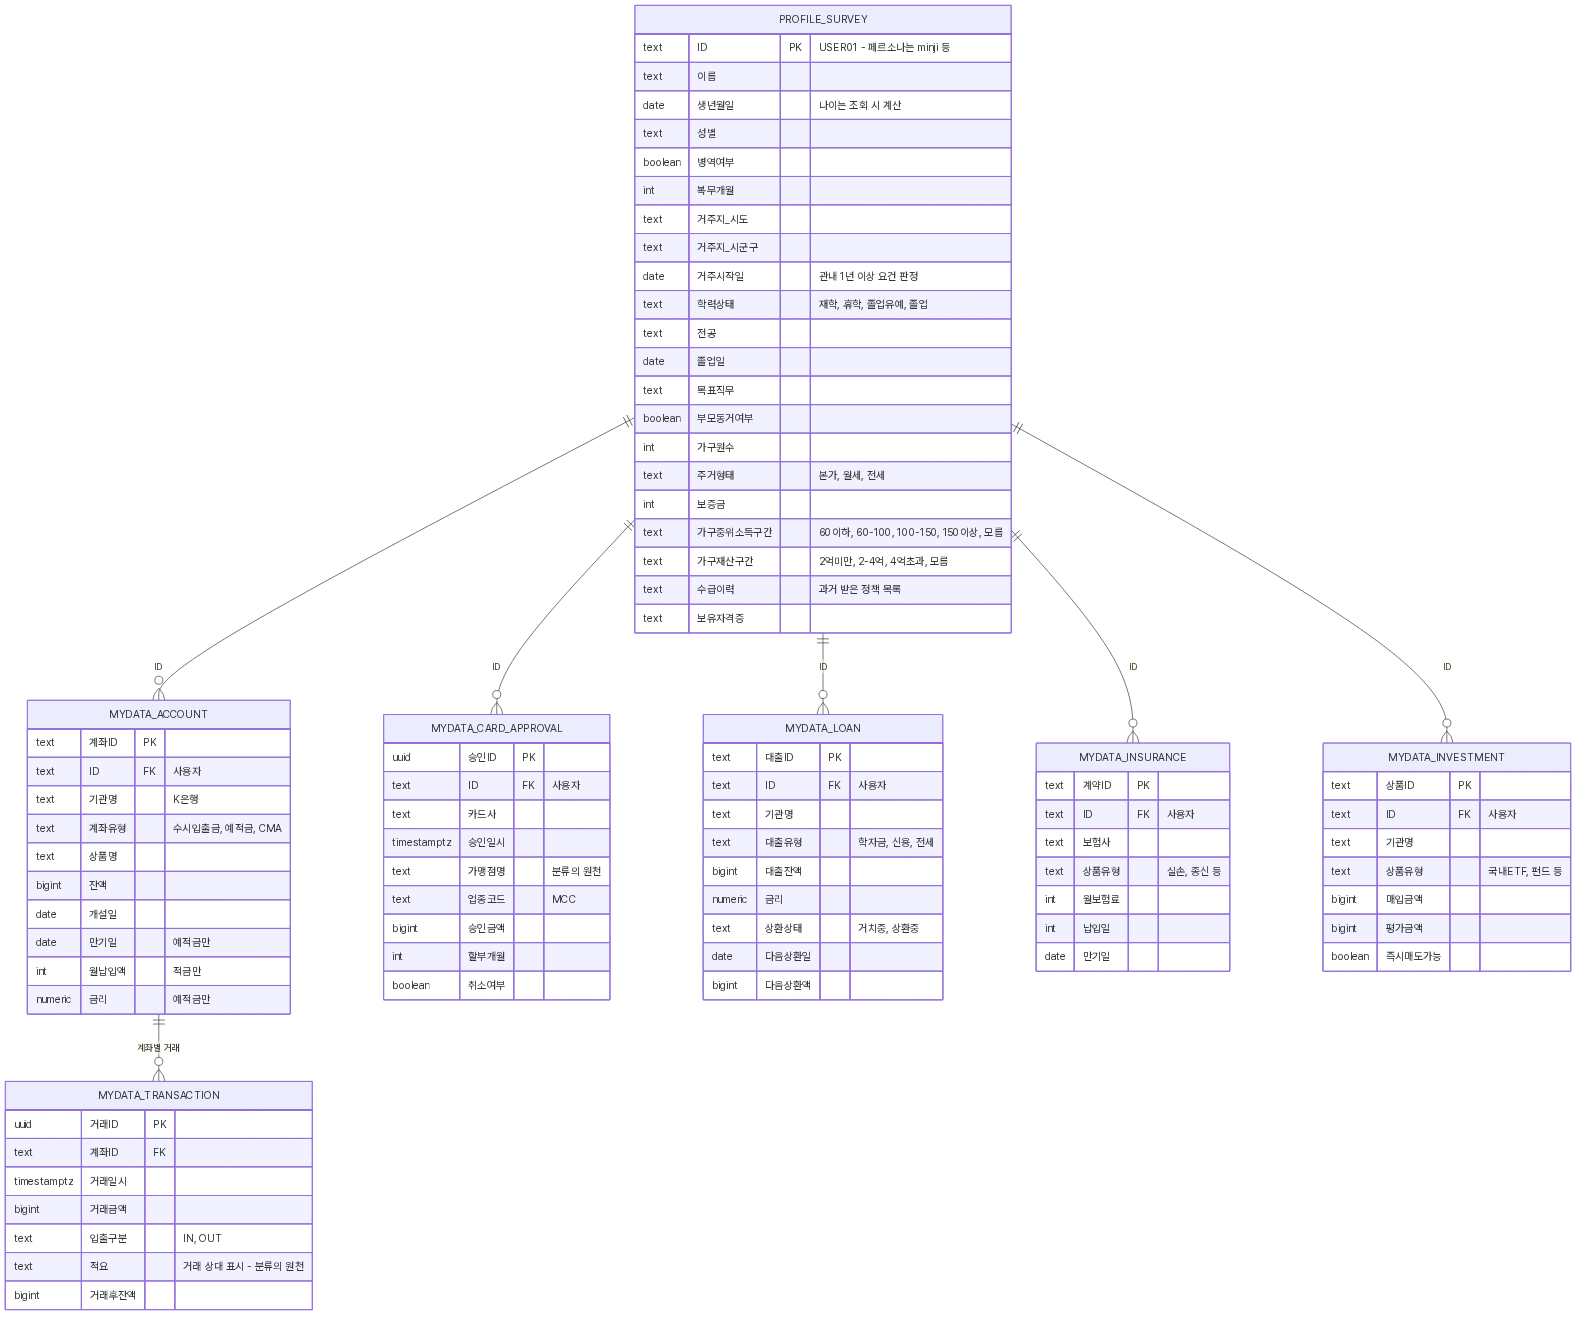
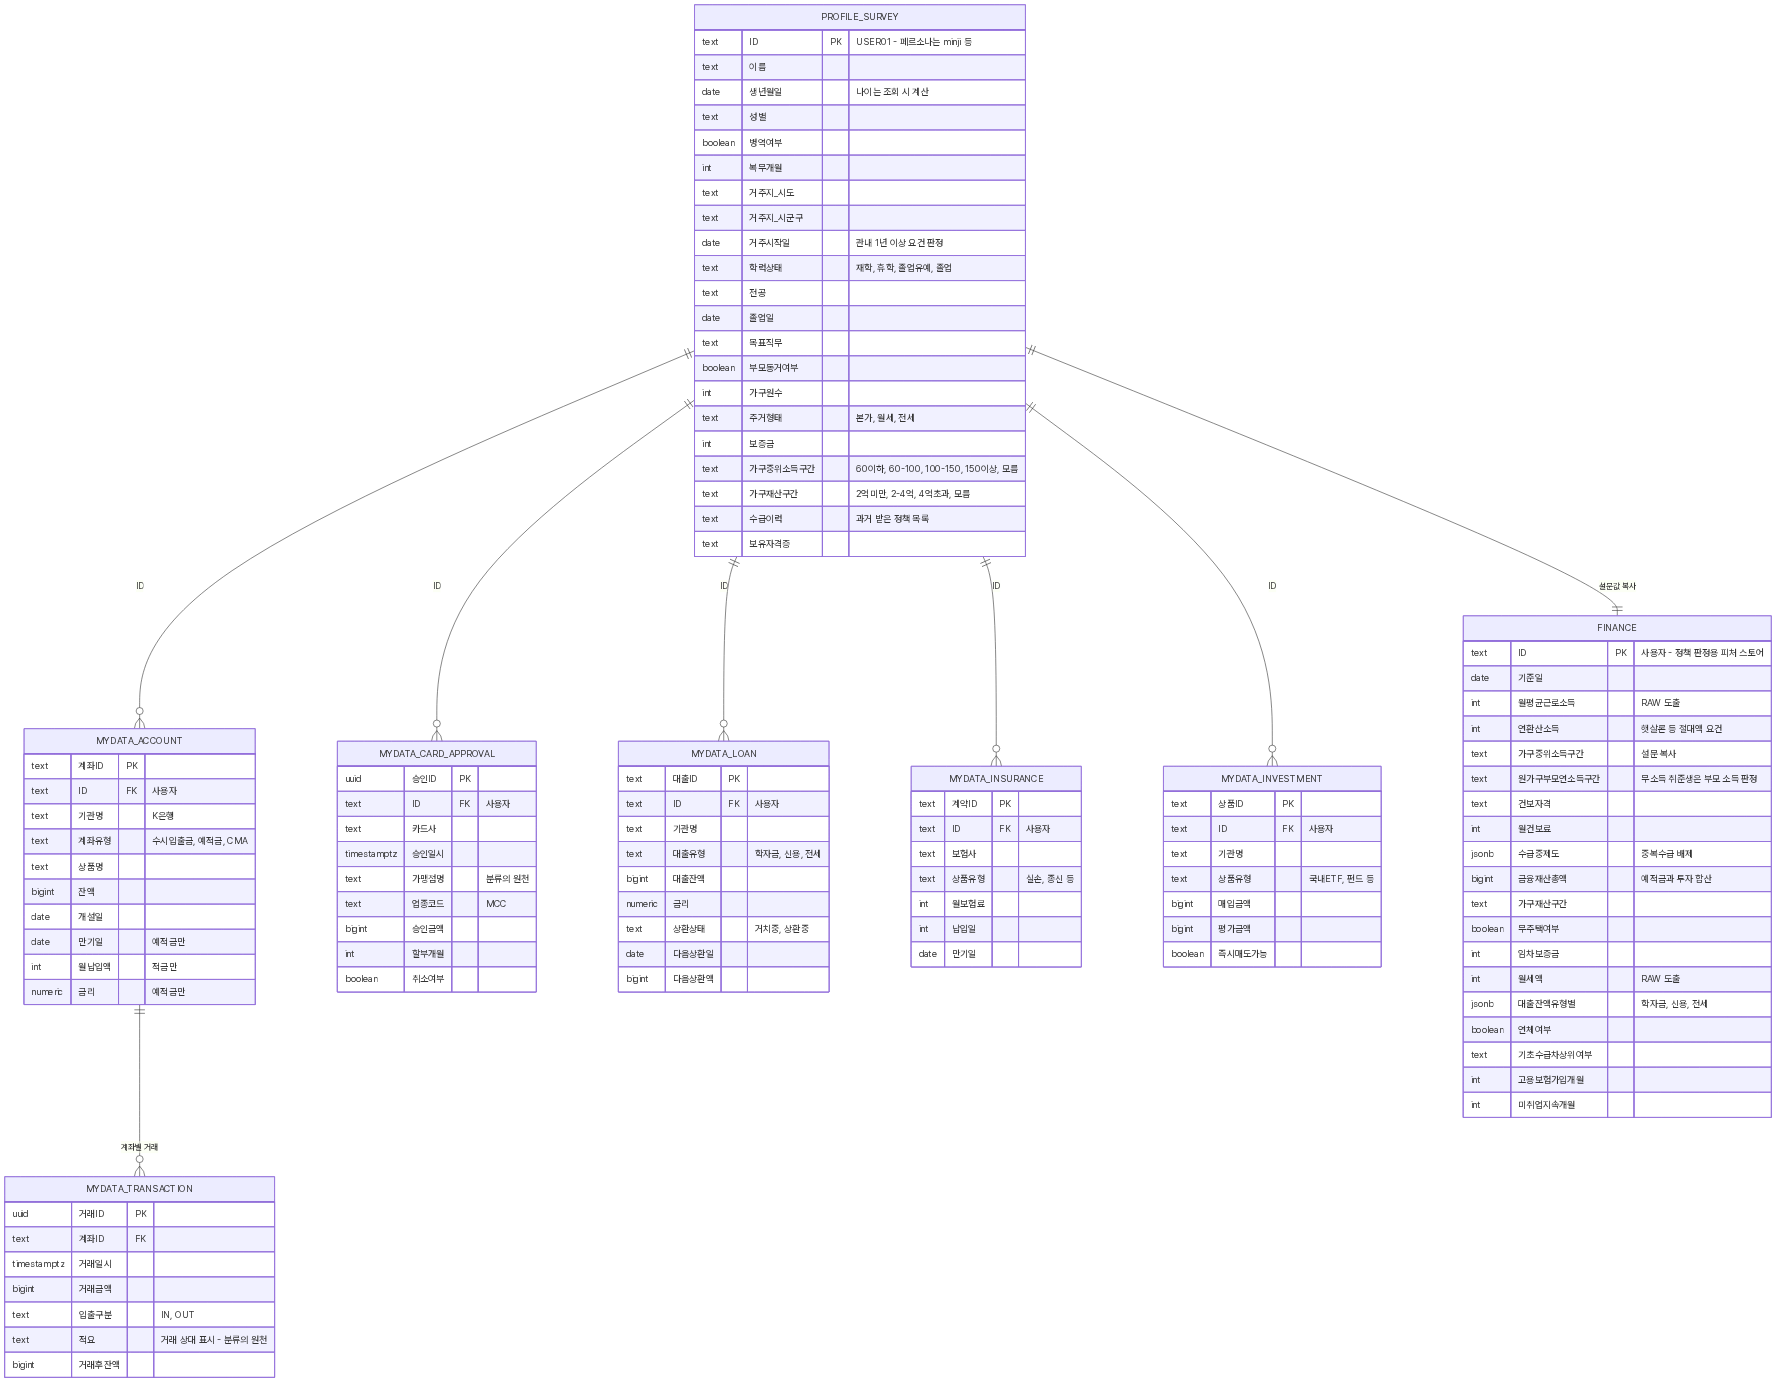
docs: FINANCE 피처 정의 (실정책 178건 요건 채굴 기반, 피처 15종) + ERD에 FINANCE 추가

diff --git a/docs/FINANCE_피처정의.md b/docs/FINANCE_피처정의.md
@@ -1,0 +1,73 @@
+# FINANCE 테이블 — 정책 판정용 금융 피처 정의
+
+> 목적: **정책 자격 판정에 직접 등장하는 금융정보만** 담는 가공 테이블.
+> RAW(MYDATA_*)와 설문(PROFILE_SURVEY)에서 계산·복사해 채우며, **LLM 매칭 엔진의 입력**이 된다
+> (매칭 시 거래내역 수십 행 대신 이 테이블 한 행만 전달 → 프롬프트 간결, 판정 근거 명확).
+
+## 선별 방법
+
+행정안전부 대한민국 공공서비스(혜택) API에서 취준생 관련 키워드 20종으로 정책을 수집,
+중복 제거 후 **취준 관련 178건**의 `지원대상`·`선정기준` 원문에서 금융 요건 패턴을 채굴했다 (2026-09-03).
+
+### 요건 패턴 빈도 (178건 기준)
+
+| 요건 패턴 | 건수 | 비율 |
+|---|---|---|
+| 나이 요건 | 114 | 64% |
+| 미취업·구직 상태 | 90 | 51% |
+| 거주 기간 | 60 | 34% |
+| 졸업·재학 | 31 | 17% |
+| **중위소득 기준** | 21 | 12% |
+| 소득 절대액·구간 | 12 | 7% |
+| 기초수급·차상위 | 8 | 4% |
+| 고용보험 | 8 | 4% |
+| 무주택 | 7 | 4% |
+| 대출·부채 | 5 | 3% |
+| 건강보험료 판정 | 4 | 2% |
+| 보증금·월세 상한 | 3 | 2% |
+| 취업경험 | 3 | 2% |
+| 재산 가액 | 1+ | 1% |
+
+- 상위 4개(나이·미취업·거주·졸업)는 비금융 → PROFILE_SURVEY 담당
+- 조사에서 **새로 발견되어 추가된 피처**: ⑭ 기초수급·차상위 여부, ⑮ 원가구(부모) 합산 연소득
+  - 근거: 세종시 임차보증금 이자지원 "취업준비생: 본인 연소득 4,500만 이하 + **부모 합산 연소득 7,000만 이하**",
+    청년주택 이자지원 "(취업준비생 등 무소득자) **부모 연소득 1억 이하**" — 무소득 취준생은 부모 소득을 절대액으로 판정
+
+## FINANCE 테이블 피처 15개
+
+| # | 컬럼 | 타입 | 출처 | 근거 정책 예 |
+|---|---|---|---|---|
+| | ID (PK, FK) | text | — | |
+| | 기준일 | date | — | 계산 시점 |
+| **소득** |||||
+| 1 | 월평균근로소득 | int | 🔄 MYDATA_TRANSACTION | 국취제 수당 감액, 청년내일저축(월 50~230만), 청년수당 단기근로 |
+| 2 | 소득관측개월수 | int | 🔄 도출 | 신뢰도 표시 |
+| 3 | 연환산소득 | int | 🔄 도출 (1×12) | 햇살론유스(3,500만↓), 청년도약계좌, 세종 이자지원(본인 4,500만↓) |
+| 4 | 가구중위소득구간 | text | 📝 SURVEY 복사 | 국취제 60%, 청년수당 150%, 월세지원, 주거비지원 180% |
+| 5 | 원가구부모연소득구간 | text | 📝 설문 추가 | 임차보증금 이자지원 계열 (7,000만·1억 등 절대액) |
+| 6 | 건보자격 | text | 📝 SURVEY | 직장·지역·피부양 — 소득 판정 방식 결정 |
+| 7 | 월건보료 | int | 📝 설문 (지역가입 자동이체는 🔄 도출 가능) | 지자체 다수가 건보료 고지액으로 소득 판정 |
+| 8 | 수급중제도 (명·월액·시작월·종료추정월) | jsonb | 🔄 도출 (수당 입금 감지) | 중복수급 배제, 종료 시점 lifecycle |
+| **재산** |||||
+| 9 | 금융재산총액 | bigint | 🔄 ACCOUNT+INVESTMENT 합산 | 청년월세 본인 금융재산 한도, 전세임대 총자산 |
+| 10 | 가구재산구간 | text | 📝 SURVEY 복사 | 국취제 재산 4억(청년 5억) |
+| 11 | 무주택여부 | boolean | 📝 SURVEY | 청년월세, 주거비지원, 청약 |
+| 12 | 임차보증금·월세액 | int·int | 보증금 📝 / 월세 🔄 도출 | 주거비지원(보증금 3천만+월세 50만↓), 월세자금보증(1억+60만↓) |
+| **부채** |||||
+| 13 | 대출잔액 (유형별: 학자금·신용·전세) | jsonb | 🔄 MYDATA_LOAN | 햇살론유스, 학자금 상환유예·이자지원 |
+| 14 | 연체·상환애로여부 | boolean | 🔄 MYDATA_LOAN 상환상태 | 신용회복·서민금융 연계 |
+| **자격·이력** |||||
+| 15 | 기초수급·차상위여부 | text | 📝 설문 추가 | 응시료 면제, 훈련 우대, 취업성공수당 등 8건 |
+| 16 | 고용보험가입개월·최근이직일 | int·date | 📝 SURVEY (급여 입금 🔄 추정 보조) | 구직급여 180일, 국취제 취업경험, 청년수당 제외요건 |
+| 17 | 미취업지속개월 | int | 🔄 도출(급여 부재) + 📝 보정 | 장기 미취업 우대 |
+
+🔄 = MYDATA RAW에서 계산 / 📝 = PROFILE_SURVEY에서 복사(설문)
+
+- 값이 없으면 `NULL`("모름") — 매칭 엔진은 추측 대신 **"추가 확인 필요 + 확인 방법"** 안내
+- FINANCE는 재계산 가능한 **파생 테이블(피처 스토어)** — 원천은 항상 MYDATA_* / PROFILE_SURVEY
+- PROFILE_SURVEY에 설문 항목 2개 추가 필요: **기초수급·차상위 여부**, **원가구(부모) 합산 연소득 구간**
+
+## 조사 한계
+
+- 서비스명·지원대상 키워드 검색 기반이라 완전 전수는 아님. 온통청년(청년정책) Open API 키 발급 시 청년정책 전수로 보강 예정
+- 다만 178건에서 요건 **유형**은 수렴 — 새 유형의 금융 요건이 더 나타나지 않음

diff --git a/docs/DB_스키마.md b/docs/DB_스키마.md
@@ -5,7 +5,8 @@
 > 구조 원칙:
 > - **PROFILE_SURVEY** — 마이데이터로 알 수 없어 설문으로 받는 정보 (페르소나: 임의 설정)
 > - **MYDATA_[업권]** — 마이데이터 API가 주는 **RAW 원천 데이터 그대로** (가공 없음)
-> - 도출값(월평균소득·월세감지·취준지출 등)은 **DB에 저장하지 않는다** — `src/lib/derive.ts`가 RAW에서 계산 (재계산 가능하므로 원천만 저장이 정석)
+> - **FINANCE** — 정책 판정에 직접 쓰이는 금융 피처만 담는 가공 테이블 (RAW·설문에서 계산·복사, 매칭 엔진의 입력). 피처 정의·근거: [FINANCE_피처정의.md](./FINANCE_피처정의.md)
+> - 그 외 도출값은 저장하지 않고 `src/lib/derive.ts`가 RAW에서 계산
 
 ## ERD (현재)
 
@@ -17,6 +18,7 @@ erDiagram
     PROFILE_SURVEY ||--o{ MYDATA_INSURANCE : "ID"
     PROFILE_SURVEY ||--o{ MYDATA_INVESTMENT : "ID"
     MYDATA_ACCOUNT ||--o{ MYDATA_TRANSACTION : "계좌별 거래"
+    PROFILE_SURVEY ||--|| FINANCE : "설문값 복사"
 
     PROFILE_SURVEY {
         text ID PK "USER01 - 페르소나는 minji 등"
@@ -99,6 +101,28 @@ erDiagram
         date 만기일
     }
 
+    FINANCE {
+        text ID PK "사용자 - 정책 판정용 피처 스토어"
+        date 기준일
+        int 월평균근로소득 "RAW 도출"
+        int 연환산소득 "햇살론 등 절대액 요건"
+        text 가구중위소득구간 "설문 복사"
+        text 원가구부모연소득구간 "무소득 취준생은 부모 소득 판정"
+        text 건보자격
+        int 월건보료
+        jsonb 수급중제도 "중복수급 배제"
+        bigint 금융재산총액 "예적금과 투자 합산"
+        text 가구재산구간
+        boolean 무주택여부
+        int 임차보증금
+        int 월세액 "RAW 도출"
+        jsonb 대출잔액유형별 "학자금, 신용, 전세"
+        boolean 연체여부
+        text 기초수급차상위여부
+        int 고용보험가입개월
+        int 미취업지속개월
+    }
+
     MYDATA_INVESTMENT {
         text 상품ID PK
         text ID FK "사용자"
@@ -121,6 +145,7 @@ erDiagram
 | MYDATA_LOAN | 📐 스키마만 | 학자금 대출 페르소나 추가 시 |
 | MYDATA_INSURANCE | 📐 스키마만 | 보험료는 지금 거래내역 적요로 대체 중 |
 | MYDATA_INVESTMENT | 📐 스키마만 | |
+| FINANCE | 📐 스키마만 | 피처 15종 — [FINANCE_피처정의.md](./FINANCE_피처정의.md), derive.ts 확장으로 채울 예정 |
 
 ## RAW → 도출 (테이블이 아니라 계산)
 
